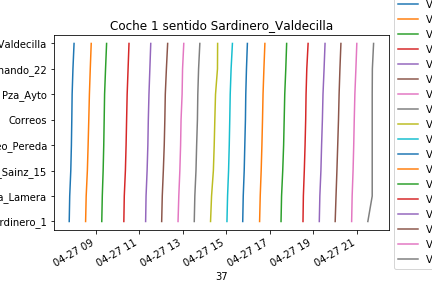
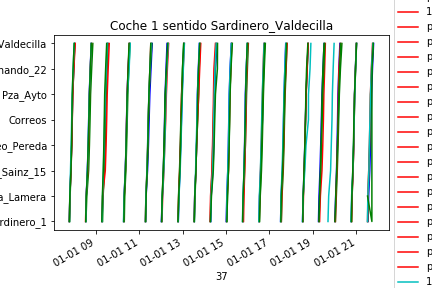
arreglos script 100

diff --git a/informes100.py b/informes100.py
@@ -22,31 +22,50 @@ from pdfkit import from_file as create_pdf
 import contextlib
 from copy import deepcopy
 import matplotlib.pyplot as plt
+from bisect import bisect
 
 # necesitamos traer de la db los datos de la linea 100
 actual = datetime.now()
 dia_resta = 3
-dia_inicio = actual-timedelta(days=(dia_resta+7))
+dia_inicio = actual-timedelta(days=(dia_resta+5))
 dia_fin = actual-timedelta(days=dia_resta)
 un_minuto = timedelta(minutes=1)
 
 tamaño_correcto_tupla_valde_sardi = 9
 tamaño_correcto_tupla_sardi_valde = 8
 
-lista_dias= (23,24,25,26,27)
+lista_dias = (23, 24, 25, 26, 27)
 
-querie = ("SELECT pp.Coche, pp.Viaje, pp.Parada, COALESCE(ppa.Instante, "
-          "pp.Instante) as Instante FROM autobuses.pasos_parada pp  left join "
-          "autobuses.pasos_parada_ajustada ppa on pp.Coche=ppa.Coche and "
+intervalos_horarios=(0,6,9,12,15,18,21,24)
+
+querie = ("create temporary table t1 as (select * from pasos_parada where "
+          " fecha between '{0}-{1}-{2}' and '{3}-{4}-{5}' and linea=100) ".format(
+              dia_inicio.year,
+              dia_inicio.month,
+              dia_inicio.day,
+              dia_fin.year,
+              dia_fin.month,
+              dia_fin.day),
+          "create temporary table t2 as (select * from pasos_parada_ajustada "
+          "where fecha between '{0}-{1}-{2}' and '{3}-{4}-{5}' and linea=100)".format(
+              dia_inicio.year,
+              dia_inicio.month,
+              dia_inicio.day,
+              dia_fin.year,
+              dia_fin.month,
+              dia_fin.day),
+          "SELECT pp.Coche, pp.Viaje, pp.Parada, COALESCE(ppa.Instante, "
+          "pp.Instante) as Instante FROM t1 pp  left join "
+          "t2 ppa on pp.Coche=ppa.Coche and "
           "ppa.Viaje=pp.Viaje and ppa.Linea=pp.Linea and ppa.Fecha=pp.fecha "
           "and pp.Parada=ppa.Parada where pp.linea=100 and pp.fecha between "
-          "'{}-{}-{}' and '{}-{}-{}' and DAYOFWEEK(pp.fecha) not in (1,7)"
-          "order by pp.coche, pp.viaje, pp.Instante").format(dia_inicio.year,
-                                                             dia_inicio.month,
-                                                             dia_inicio.day,
-                                                             dia_fin.year,
-                                                             dia_fin.month,
-                                                             dia_fin.day)
+          "'{0}-{1}-{2}' and '{3}-{4}-{5}' and DAYOFWEEK(pp.fecha) not in (1,7) "
+          "order by pp.coche, pp.viaje, pp.Instante".format(dia_inicio.year,
+                                                            dia_inicio.month,
+                                                            dia_inicio.day,
+                                                            dia_fin.year,
+                                                            dia_fin.month,
+                                                            dia_fin.day))
 querie_cabeceras = ("SELECT coche, viaje, Parada, Instante from "
                     "autobuses.pasos_parada_ajustada where linea=100 "
                     "and parada in (512,509,511,516) and fecha='{}-{}-{}' "
@@ -60,6 +79,14 @@ archivo = "{}{}{}".format(actual.year,
                           actual.month,
                           actual.day-dia_resta)
 
+colores=("b",
+                                                       "g",
+                                                       "r",
+                                                       "c",
+                                                       "g",
+                                                       "m",
+                                                       "y",
+                                                       "k")
 
 def filtro_valdecilla_sardinero(clave_lista,
                                 tamaño_correcto_tupla_valde_sardi=tamaño_correcto_tupla_valde_sardi):
@@ -69,6 +96,12 @@ def filtro_valdecilla_sardinero(clave_lista,
 def filtro_sardinero_valdecilla(clave_lista,
                                 tamaño_correcto_tupla_sardi_valde=tamaño_correcto_tupla_sardi_valde):
     return tamaño_correcto_tupla_sardi_valde != len(clave_lista[1])
+
+def normaliza_fecha(fecha):
+    return datetime(2000,1,1,fecha.hour,fecha.minute,fecha.second)
+
+def devuelve_intervalo(datetime, intervalos_horarios=intervalos_horarios):
+    return bisect(intervalos_horarios,datetime.hour)
 
 
 if os.path.exists(directorio):
@@ -84,7 +117,7 @@ with contextlib.closing(MySQLdb.connect(user='root',
                                         database='autobuses'
                                         )) as conexion:
     with contextlib.closing(conexion.cursor()) as cursor:
-        cursor.execute(querie)
+        exhaust_map(cursor.execute, querie)
         datos_row = tuple(cursor)
 
 
@@ -134,7 +167,8 @@ Columnas = namedtuple("Columnas",
                        "instante"))
 cols = Columnas(*range(4))
 
-viajes_ordenado = defaultdict(lambda: defaultdict(lambda:  defaultdict(lambda: defaultdict(list))))
+viajes_ordenado = defaultdict(lambda: defaultdict(
+    lambda:  defaultdict(lambda: defaultdict (lambda: defaultdict(list)))))
 
 # si la parada es alguna de las de las cabeceras vamos a usar la consulta de la otra db
 for coche_viaje, rows in groupby(datos_row, lambda fila: (fila[cols.coche],
@@ -145,60 +179,68 @@ for coche_viaje, rows in groupby(datos_row, lambda fila: (fila[cols.coche],
     sentido_viaje = ''
     for fila in rows:
         if fila[cols.parada] == paradas.Valdecilla:
-            viajes_ordenado[coche_viaje[0]]['Valdecilla_Sardinero'][fila[cols.instante].day][coche_viaje[1]
-                                                                    ].append(fila[cols.instante].time)
+            viajes_ordenado[coche_viaje[0]]['Valdecilla_Sardinero'][fila[cols.instante].day][devuelve_intervalo(fila[cols.instante])][coche_viaje[1]
+                                                                                             ].append(normaliza_fecha(fila[cols.instante]))
             sentido_viaje = sentido.Valdecilla_Sardinero
         elif fila[cols.parada] == paradas.Int_Sardinero_1:
-            viajes_ordenado[coche_viaje[0]]['Sardinero_Valdecilla'][fila[cols.instante].day][coche_viaje[1]
-                                                                    ].append(fila[cols.instante].time)
+            viajes_ordenado[coche_viaje[0]]['Sardinero_Valdecilla'][fila[cols.instante].day][devuelve_intervalo(fila[cols.instante])][coche_viaje[1]
+                                                                                             ].append(normaliza_fecha(fila[cols.instante]))
             sentido_viaje = sentido.Sardinero_Valdecilla
         elif fila[cols.parada] in paradas_a_sardinero:
-            viajes_ordenado[coche_viaje[0]]['Valdecilla_Sardinero'][fila[cols.instante].day][coche_viaje[1]
-                                                                    ].append(fila[cols.instante].time)
+            viajes_ordenado[coche_viaje[0]]['Valdecilla_Sardinero'][fila[cols.instante].day][devuelve_intervalo(fila[cols.instante])][coche_viaje[1]
+                                                                                             ].append(normaliza_fecha(fila[cols.instante]))
         elif fila[cols.parada] in paradas_a_valdecilla:
-            viajes_ordenado[coche_viaje[0]]['Sardinero_Valdecilla'][fila[cols.instante].day][coche_viaje[1]
-                                                                    ].append(fila[cols.instante].time)
+            viajes_ordenado[coche_viaje[0]]['Sardinero_Valdecilla'][fila[cols.instante].day][devuelve_intervalo(fila[cols.instante])][coche_viaje[1]
+                                                                                             ].append(normaliza_fecha(fila[cols.instante]))
 # filtro para borrar los malos
 
 viajes_ordenado_filtrado = deepcopy(viajes_ordenado)
 
 for key, d1 in viajes_ordenado.items():
     for dia in lista_dias:
+        
         for d2 in filter(filtro_valdecilla_sardinero, d1['Valdecilla_Sardinero'][dia].items()):
             del viajes_ordenado_filtrado[key]['Valdecilla_Sardinero'][dia][d2[0]]
         for d2 in filter(filtro_sardinero_valdecilla, d1['Sardinero_Valdecilla'][dia].items()):
             del viajes_ordenado_filtrado[key]['Sardinero_Valdecilla'][dia][d2[0]]
-        if  len(d1['Sardinero_Valdecilla'][dia].items())==0:
+        if len(d1['Sardinero_Valdecilla'][dia].items()) == 0:
             del viajes_ordenado_filtrado[key]['Sardinero_Valdecilla'][dia]
-        if  len(d1['Valdecilla_Sardinero'][dia].items())==0:
+        if len(d1['Valdecilla_Sardinero'][dia].items()) == 0:
             del viajes_ordenado_filtrado[key]['Valdecilla_Sardinero'][dia]
 
 
 # montamos otro diccionario mas cocreto con los distintos df a pintar
 for coche, valores in viajes_ordenado_filtrado.items():
-    if coche !=1:
+    if coche != 1:
         continue
     for sentido, valores2 in valores.items():
 
         tamaño = tamaño_correcto_tupla_valde_sardi if sentido == 'Valdecilla_Sardinero' else tamaño_correcto_tupla_sardi_valde
         nombres = paradas_a_sardinero_nombres if sentido == 'Valdecilla_Sardinero' else paradas_a_valdecilla_nombres
-        for dia in lista_dias: 
+        inicia_plot=True
+        #hay que dividir los viajes si son muchos para que se pinten en grupos más pequeños y se vea mejor
+        for dia in lista_dias:
+            
             df = pd.DataFrame.from_dict(
                 viajes_ordenado_filtrado[coche][sentido][dia], orient='columns', dtype=None)
             if df.empty:
                 continue
             else:
+                color=colores[lista_dias.index(dia)]
+#                handles.append(str(dia))
                 df['paradas'] = list(range(tamaño))
-                df2=df
+                df2 = df
                 #df['pasos_parada']=df.apply(tuple, axis=1)
                 columnas = list(df.columns.values)
     #            ax = df.plot(x=columnas[0], y='paradas',
     #                         label='Viaje {}'.format(str(columnas[0])), figsize=(20, 10))
-                ax = df.plot(x=columnas[0], y='paradas',
-                             label='Viaje {}'.format(str(columnas[0])))
+                if inicia_plot:
+                    ax = df.plot(x=columnas[0], y='paradas', color=color, legend=False)
+                    inicia_plot=False
+                else:
+                    handles.append(df.plot(x=columnas[0], y='paradas', ax=ax, color=color,  legend=False))
                 for viaje in columnas[1:-1]:
-                    df.plot(x=viaje, y='paradas', ax=ax,
-                            label='Viaje {}'.format(str(viaje)))
+                    df.plot(x=viaje, y='paradas', ax=ax, color=color, legend=False)
                 ax.set_yticklabels(nombres)
                 ax.legend(loc='center left', bbox_to_anchor=(1.0, 0.5))
                 titulo = 'Coche {} sentido {}'.format(str(coche), sentido)
